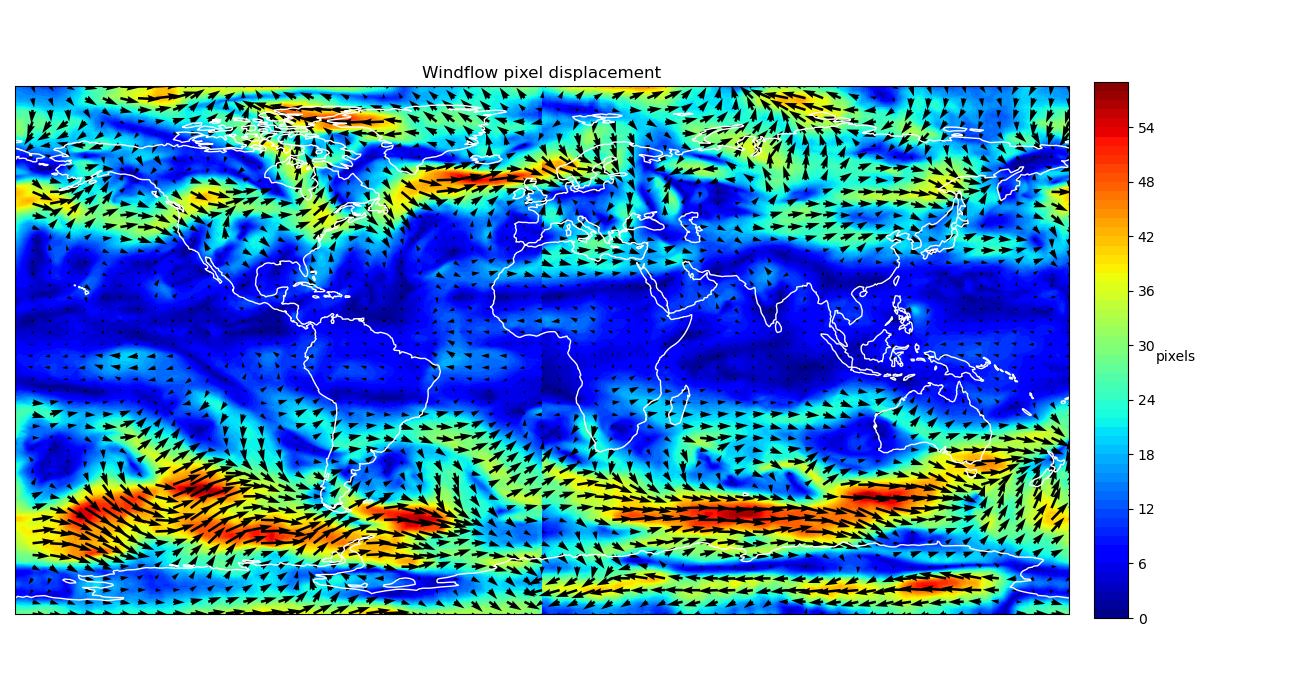
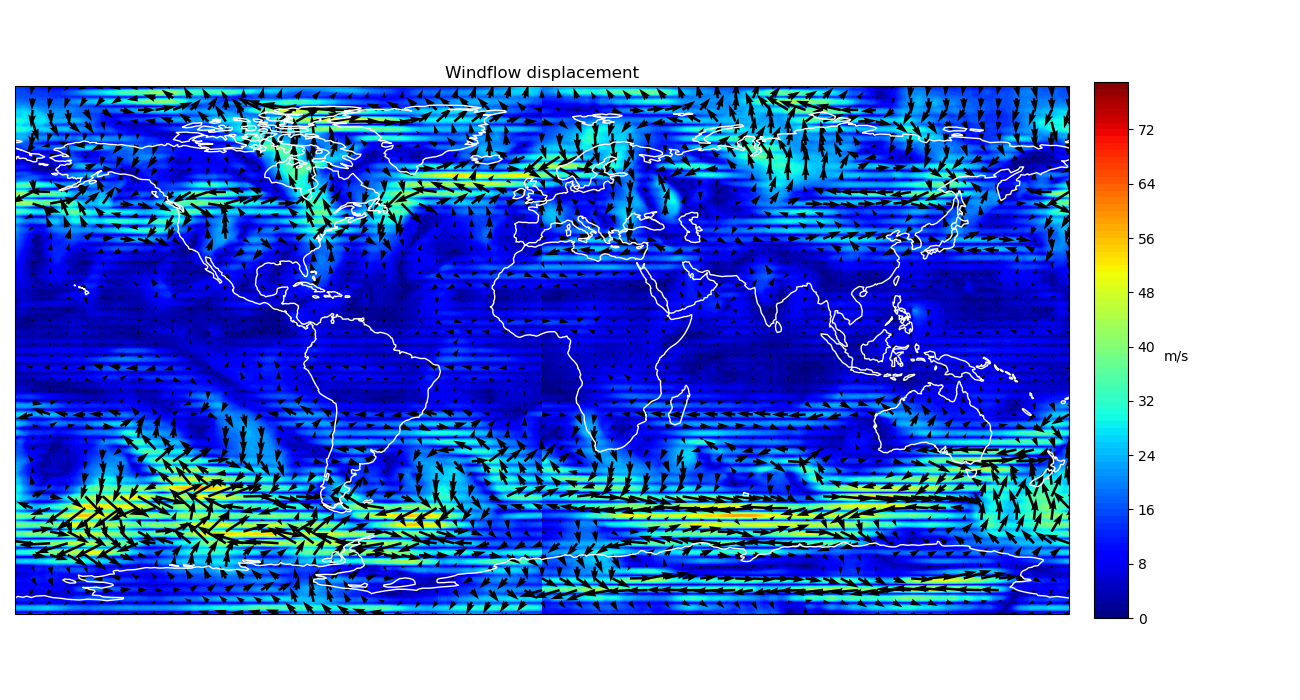
updated contour plots to be in m/s. Needs debugging.

diff --git a/contours.py b/contours.py
@@ -75,22 +75,26 @@ _, flows = inference.forward(gp_rad1, gp_rad2)
 
 u = flows[0]
 v = flows[1]
+# do calculations convert pixel to m/s
+expanded_lat = np.tile(lat, (3600, 1)).T #reshaped to (1801,3600)
+u = (u * 0.1 * 111 * 1000 * np.cos(expanded_lat)) / 10800
+v = (v * 0.1 * 111 * 1000) / 10800
 
 ws = (u**2 + v**2)**0.5
 max_ws = np.nanmax(ws)
 print("Maximum wind speed:", max_ws)
-c_inv = np.arange(0, 60, 1)
+c_inv = np.arange(0, 80, 1)
 fig = plt.figure(figsize=(13,7))
 ax = plt.axes(projection=ccrs.PlateCarree())
 ax.coastlines(color='white')
 plt.contourf(lon, lat, ws, c_inv, transform=ccrs.PlateCarree(),cmap=plt.cm.jet) # takes some time
 
 cb = plt.colorbar(ax=ax, orientation="vertical", pad=0.02, aspect=16, shrink=0.8)
-cb.set_label('pixels',size=10,rotation=0,labelpad=15)
+cb.set_label('m/s',size=10,rotation=0,labelpad=15)
 cb.ax.tick_params(labelsize=10)
 
 # splice array:
 qv = plt.quiver(lon[::60], lat[::40], u[::40, ::60], v[::40, ::60], color='k')
 plt.tight_layout()
-plt.title('Windflow pixel displacement')
+plt.title('Windflow displacement')
 plt.savefig('contour_quivers_windflow.png')
